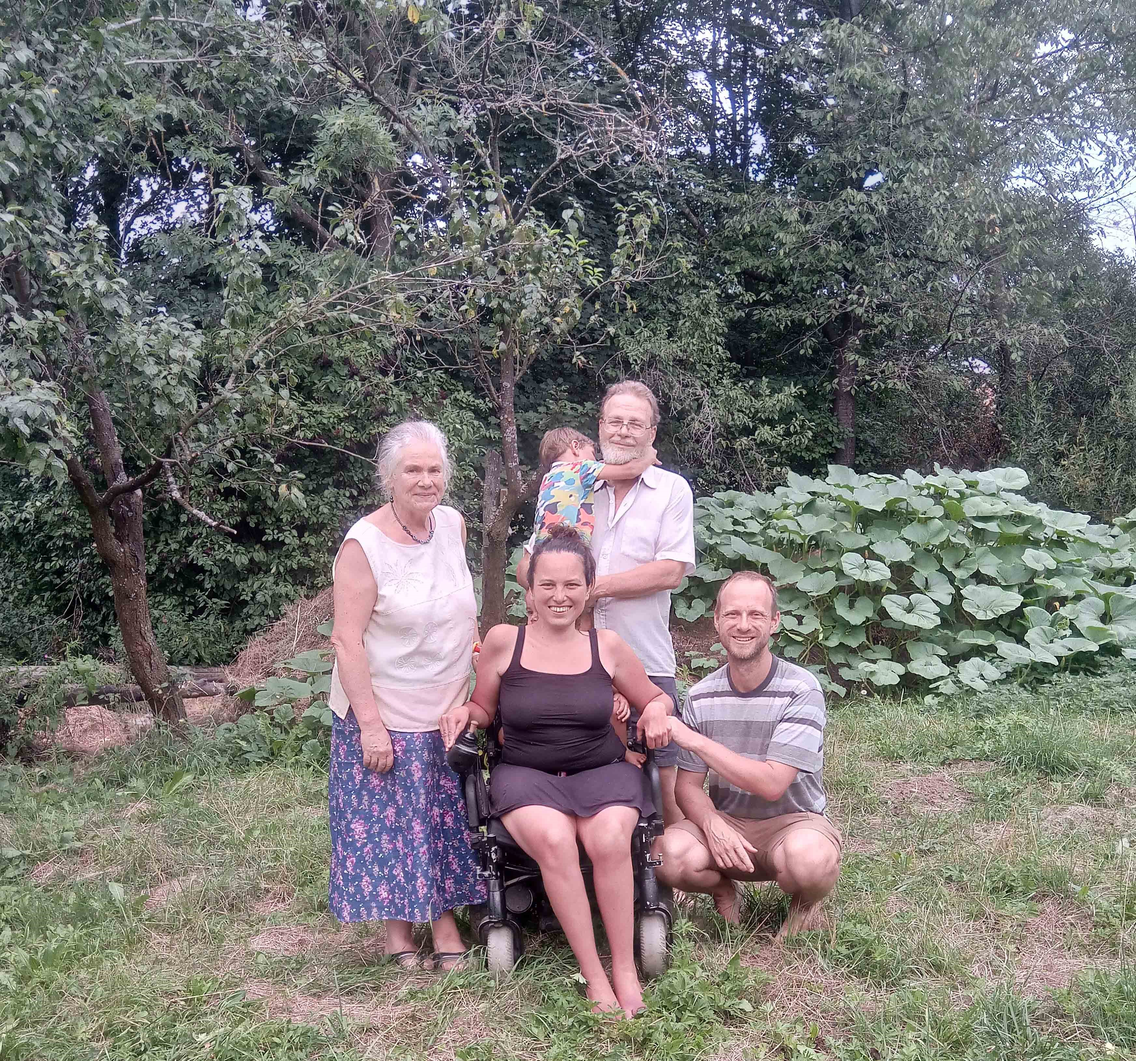
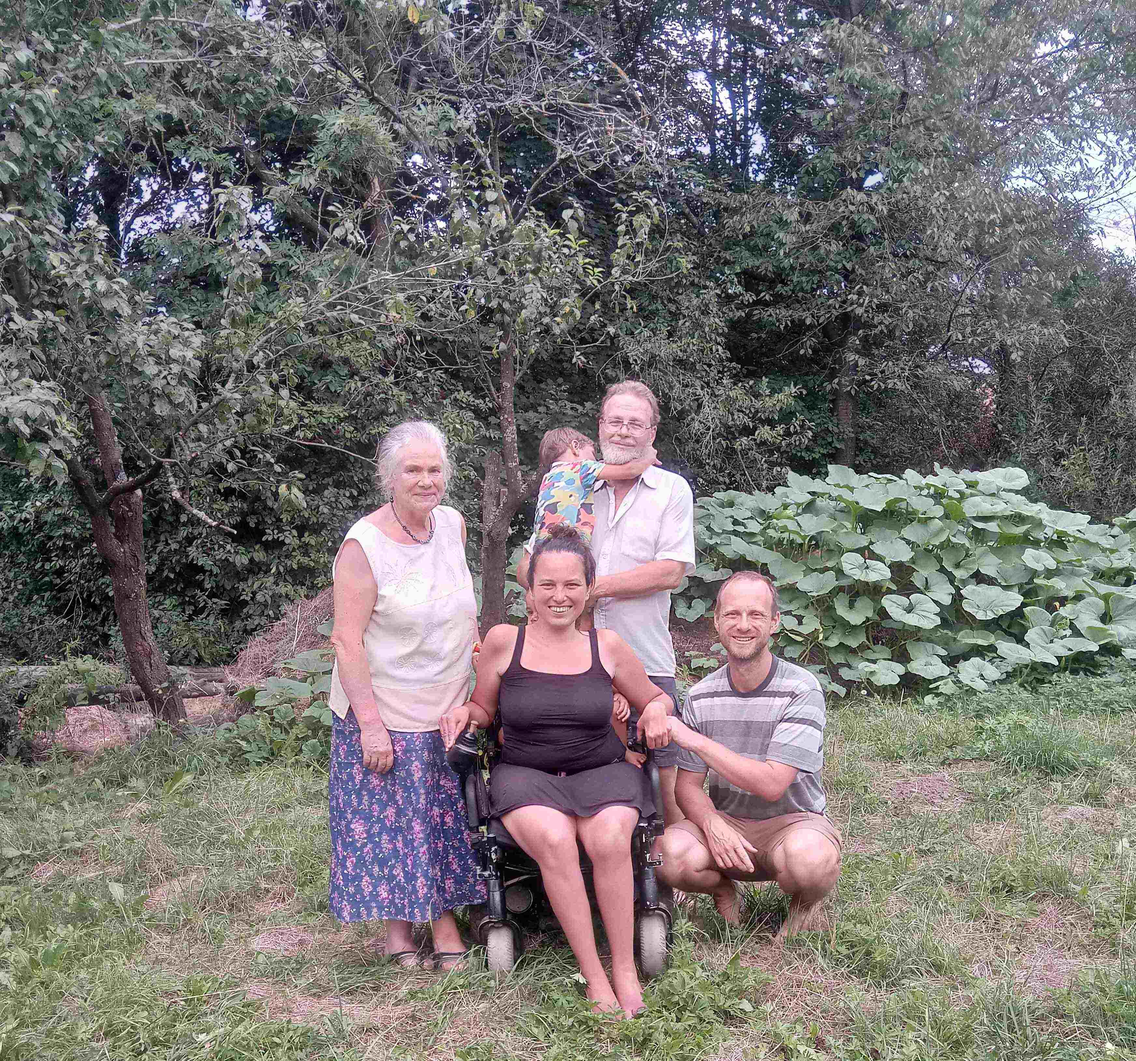
snížení velikosti nekterých fotek

diff --git a/blog/021_dum_stavi_nas.html b/blog/021_dum_stavi_nas.html
@@ -4,7 +4,7 @@ title: Dům staví nás
 tags:  clanky
 datum: 17. května 2023
 date: 2023-05-17
-picture: /img/table_blog/021.png
+picture: /img/table_blog/021.jpg
 picture_title: Rozestavěný dům na kopci
 perex: Je to dva a půl roku, co jsme se pustili do stavby domu svépomocí. Věděli jsme, že je to pořádné sousto. Životní výzva. No a když člověk vystoupí ze své komfortní zóny, což my jsme bezpochyby udělali, hodně se učí něčemu novému. A tak nám brzy došlo, že ten dům staví nás!
 ---
